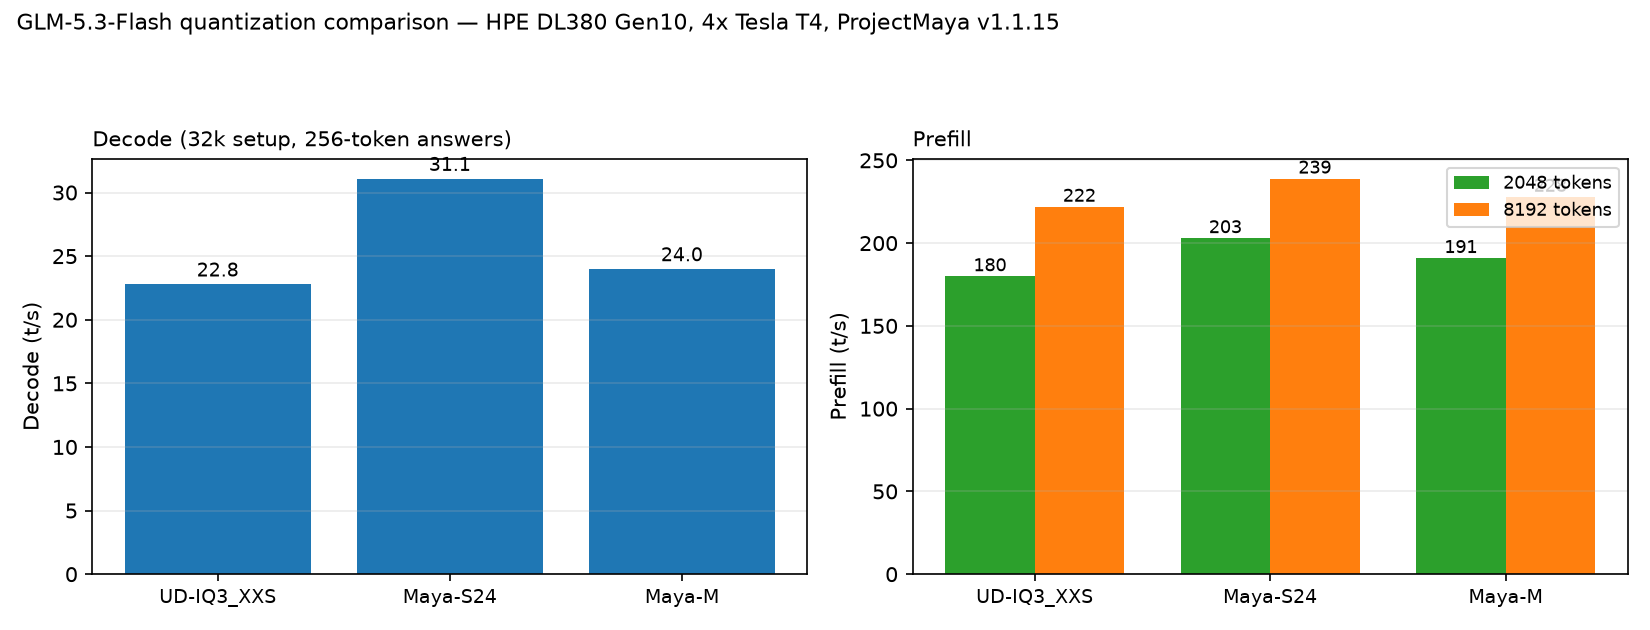
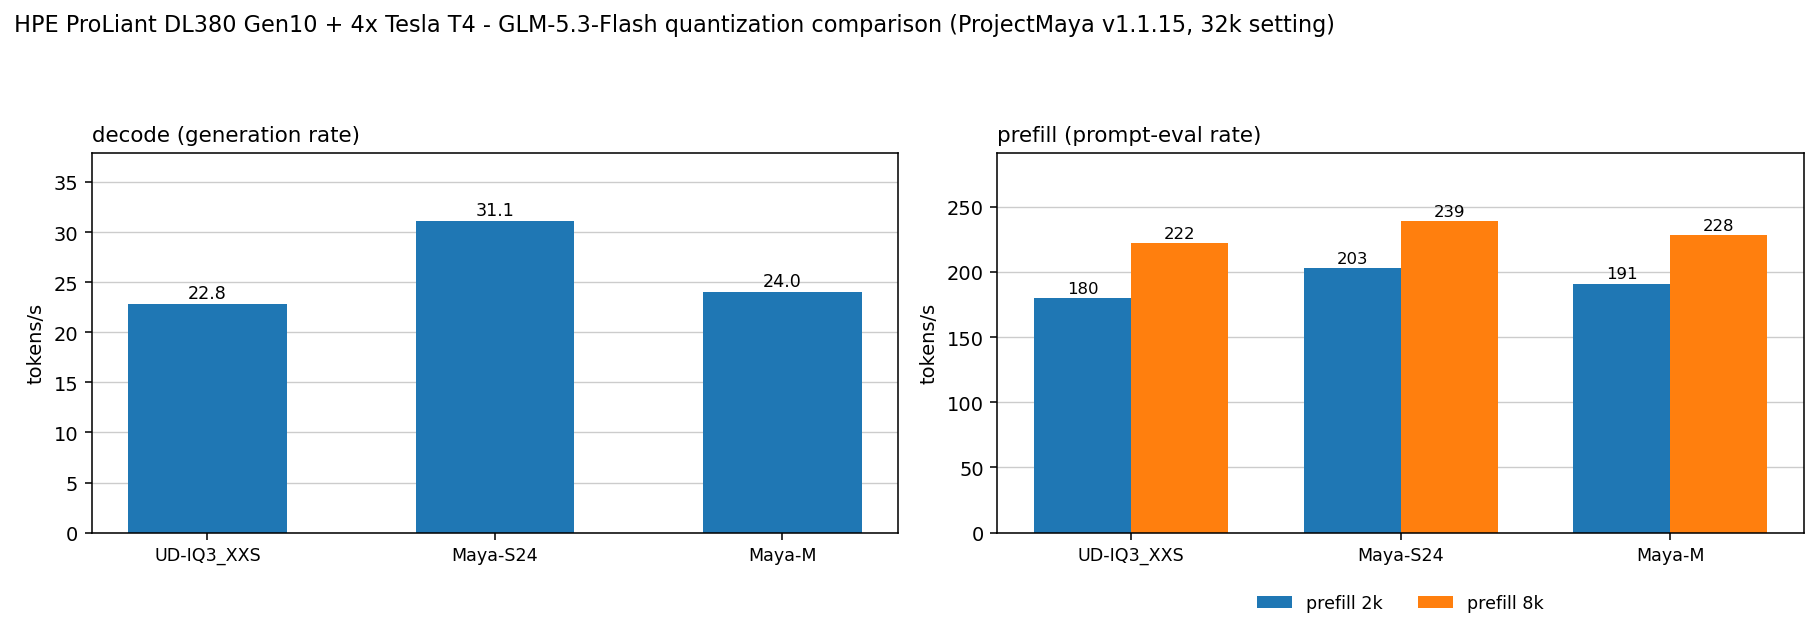
report: correct the S24 VRAM hit rate and drop unlogged metrics
S24 is 81.7% (shown as 82%) with 5.3 RAM fetches/token. Load time and MTP acceptance were not in the attached logs, so remove them and cite the placement-plan lines instead. Regenerate the figures without legend overlap.

Changed region(s): [[0.0, 0.181, 1.0, 0.9651], [0.0, 0.0, 0.7418, 0.0603], [0.4636, 0.3619, 0.4945, 0.3921]]

diff --git a/report/2026-10-18_070335_comparing_maya_s24_maya_m_and_ud_iq3_xxs_of_glm_5.3_flash_on_4x_tesla_t4.md b/report/2026-10-18_070335_comparing_maya_s24_maya_m_and_ud_iq3_xxs_of_glm_5.3_flash_on_4x_tesla_t4.md
@@ -50,20 +50,20 @@ T4 15 GB × 4 でコーディング用途に使うなら、32k〜256k は **Maya
 | モデル | 上記 3 量子化。いずれも同じ GLM-5.3-Flash（`glm5-next`、46 ブロック、エキスパート 288 / 使用 8、コンテキスト長 1,048,576） |
 | 測定モード（32k） | 4 GPU（0,1,2,3）の layer 分割、`--expert-cache auto`、`--prefill auto`、`--kv-streaming on`。3 問 × 256 トークン（greedy、thinking off）、prefill は 2048 / 8192 トークン |
 | 測定モード（256k / 1M） | 同じエンジン設定で `--max-context` を変更。5% 深さに `BENCH-OF-US-7F3A` を置き、末尾で戻り値を問う。greedy、最大 64 トークン |
-| 投機的デコード | MTP（NextN）有効。標準ベンチのエンジンログで UD 88.7%、S24 91.3%、M 89.2% 採択 |
+| 投機的デコード | MTP（NextN）有効。添付の標準ベンチログには採択率の行がないため、`the draft layer` とプール前使用量の `other (context, MTP, scratch, prompt path)` 行で有効を確認 |
 | その他 | テキストのみ（vision なし）、RAM 232 GiB、SSD からのエキスパート読み出しは全量子化で 0.00 回 / トークン |
 
 ### 結果（32k 設定の標準ベンチ）
 
 ![量子化比較](attachment/2026-10-18_070335_comparing_maya_s24_maya_m_and_ud_iq3_xxs_of_glm_5.3_flash_on_4x_tesla_t4/quant-compare-ja.png)
 
-| 量子化 | decode | prefill 2k | prefill 8k | VRAM ヒット | RAM に pin | ロード | MTP 採択 |
-|------|------:|------:|------:|------:|------:|------:|------:|
-| UD-IQ3_XXS | 22.8 t/s | 180 t/s | 222 t/s | 74% | 69.8 GB | 82 s | 88.7% |
-| Maya-S24 | **31.1 t/s** | **203 t/s** | **239 t/s** | 81% | 44.8 GB | 64 s | 91.3% |
-| Maya-M | 24.0 t/s | 191 t/s | 228 t/s | 76% | 65.4 GB | 77 s | 89.2% |
+| 量子化 | decode | prefill 2k | prefill 8k | VRAM ヒット | RAM に pin |
+|------|------:|------:|------:|------:|------:|
+| UD-IQ3_XXS | 22.8 t/s | 180 t/s | 222 t/s | 74% | 69.8 GB |
+| Maya-S24 | **31.1 t/s** | **203 t/s** | **239 t/s** | 82% | 44.8 GB |
+| Maya-M | 24.0 t/s | 191 t/s | 228 t/s | 76% | 65.4 GB |
 
-「RAM に pin」は 4 GPU の RAM tier の合計です。VRAM ヒットは、3 問の decode 時に `glm stat` が記録した、ルーティングされたエキスパートのうち VRAM から供給できた割合の平均です。
+「RAM に pin」は 4 GPU の RAM tier の合計です。VRAM ヒットは、3 問の decode 時に `glm stat` が記録した、ルーティングされたエキスパートのうち VRAM から供給できた割合の平均です。S24 は 81.03 / 83.33 / 80.75% の平均 81.7% を 82% と表示しています。モデルロード時間と MTP の採択率は、添付の標準ベンチログに該当行がないため表から外しました。配置計画の比率は各ログの `glm split auto:` 行に `93% of the routed experts in VRAM`（S24）/ `82%`（UD）/ `84%`（M）と記録されています。
 
 ### 結果（256k / 1M、ニードル検証）
 
@@ -80,11 +80,11 @@ UD の 256k / 1M は [別レポート](2026-10-18_061111_validating_glm_5.3_flas
 
 ### 所感
 
-- **32k では Maya-S24 が圧勝**しました。decode 31.1 t/s は UD-IQ3_XXS の 22.8 t/s に対して +36%、Maya-M の 24.0 t/s に対して +30% です。S24 は attention を Q4_K に軽量化したぶん、VRAM のエキスパートプールを広く取れます。エンジンの配置計画ではルーティングされたエキスパートの 93% を VRAM に置き（UD は 82%、M は 84%）、実測の VRAM ヒットは 81%（UD は 74%、M は 76%）、RAM からの取得は 5.1 個 / トークン（UD は 8.8〜10.6 個）で済んでいます。RAM tier も 44.8 GB と UD の 69.8 GB より少なく、同じ 232 GiB のマシンでより長いコンテキストに余力を残せます。
+- **32k では Maya-S24 が圧勝**しました。decode 31.1 t/s は UD-IQ3_XXS の 22.8 t/s に対して +36%、Maya-M の 24.0 t/s に対して +30% です。S24 は attention を Q4_K に軽量化したぶん、VRAM のエキスパートプールを広く取れます。エンジンの配置計画ではルーティングされたエキスパートの 93% を VRAM に置き（UD は 82%、M は 84%）、実測の VRAM ヒットは 82%（UD は 74%、M は 76%）、RAM からの取得は 5.3 個 / トークン（UD は 8.8〜10.6 個）で済んでいます。RAM tier も 44.8 GB と UD の 69.8 GB より少なく、同じ 232 GiB のマシンでより長いコンテキストに余力を残せます。
 - **Maya-M は UD よりわずかに速い程度**です。decode 24.0 対 22.8（+5%）、prefill 191 / 228 対 180 / 222（+6% / +3%）で、S24 より 23% 遅い結果でした。公表精度は 97.9% で S24 の 97.7% よりわずかに高いため、速度より品質を優先する場合の選択肢になります。ただし今回の計測は速度とニードル検索のみで、品質差は確認していません。
 - **256k では S24 と UD の差が縮まります**。prefill 439.1 対 420.2（+4.5%）、decode 12.22 対 12.13（+0.7%）で、ほぼ同等です。長いコンテキストでは KV streaming と attention のコストが支配的になり、32k でのエキスパート配置の優位が薄れるためと考えられます。それでも S24 は RAM tier が少なく、TTFT も 9.9 分と UD の 10.4 分より短いです。
 - **1M は UD-IQ3_XXS のみ検証済み**です。prefill 332.7 t/s / decode 8.36 t/s、5% 深さのニードルに正答しました。S24 と M の 1M は未計測です。1M を必須にするなら、現時点で実証済みなのは UD です。S24 は 256k まで正答しており、1M でも動く可能性は高いですが、未確認です。
-- MTP は全量子化で有効で、採択率は 88.7〜91.3% でした。decode 値は投機的デコード込みです。
+- MTP は全量子化で有効です（採択率は添付の標準ベンチログに記録されていません）。decode 値は投機的デコード込みです。
 - **T4 15 GB × 4 でのおすすめ**:
   - 32k〜256k のコーディング／エージェント用途: **Maya-S24**（最速、RAM 消費も少ない）
   - 1M コンテキストが必要: **UD-IQ3_XXS**（1M 検証済み。速度は S24 よりわずかに劣る）
